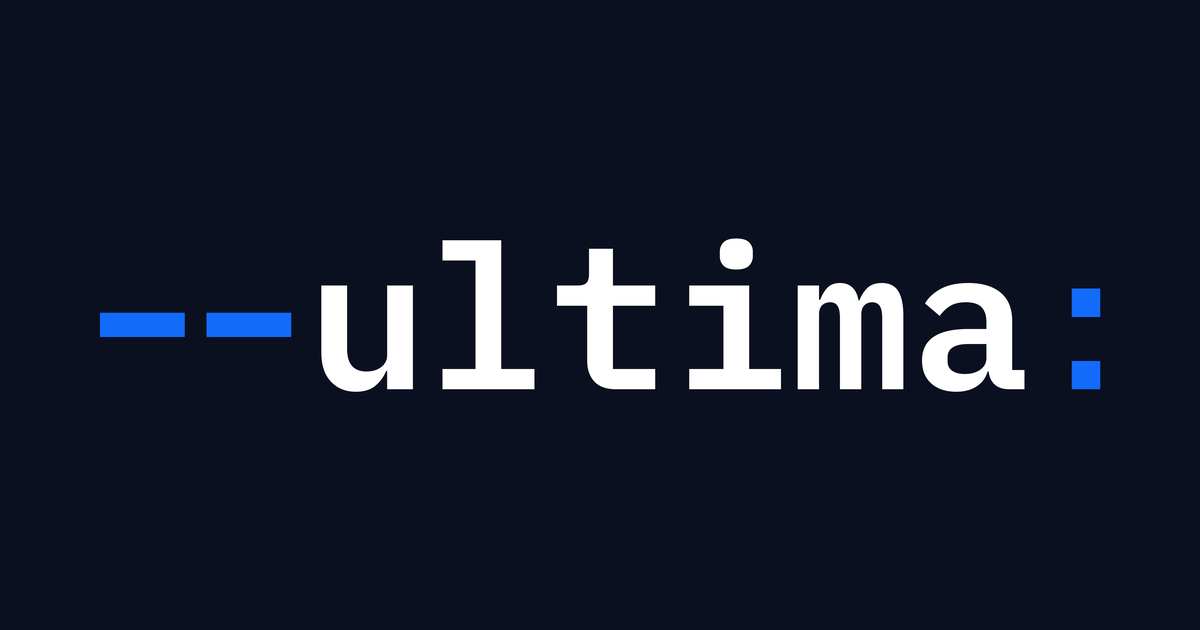
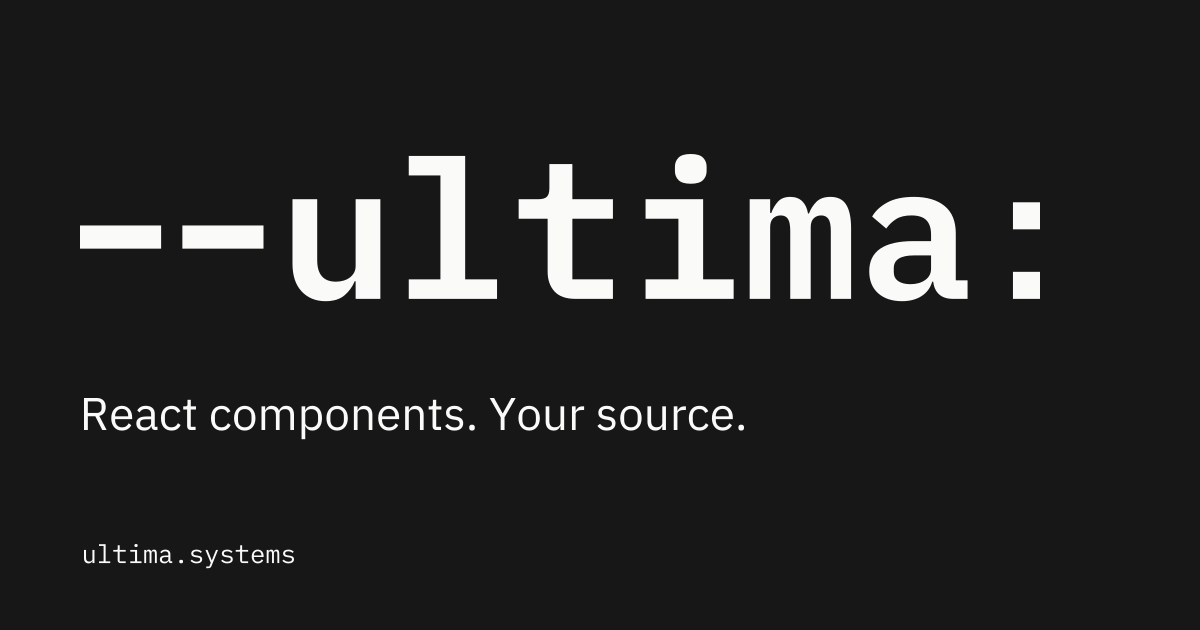
Refine Ultima branding across site and repository

diff --git a/apps/docs/index.html b/apps/docs/index.html
@@ -9,18 +9,20 @@
     <link rel="icon" href="/favicon.ico" sizes="any" />
     <link rel="apple-touch-icon" href="/apple-touch-icon.png" />
     <link rel="manifest" href="/site.webmanifest" />
-    <meta name="theme-color" content="#0b1020" />
+    <meta name="theme-color" content="#171717" />
     <meta property="og:type" content="website" />
     <meta property="og:title" content="Ultima" />
     <meta property="og:description" content="Tokens and React components on Base UI and StyleX, installed as source through a shadcn registry." />
     <meta property="og:url" content="https://ultima.systems/" />
     <meta property="og:image" content="https://ultima.systems/og.png" />
+    <meta property="og:image:alt" content="Ultima. React components. Your source." />
     <meta property="og:image:width" content="1200" />
     <meta property="og:image:height" content="630" />
     <meta name="twitter:card" content="summary_large_image" />
     <meta name="twitter:title" content="Ultima" />
     <meta name="twitter:description" content="Tokens and React components on Base UI and StyleX, installed as source through a shadcn registry." />
     <meta name="twitter:image" content="https://ultima.systems/og.png" />
+    <meta name="twitter:image:alt" content="Ultima. React components. Your source." />
     <script>
       (function () {
         try {

diff --git a/scripts/build-brand.py b/scripts/build-brand.py
@@ -1,102 +1,131 @@
-"""Regenerate brand assets: python3 -m pip install fonttools brotli pillow."""
+"""Regenerate the brand kit. See docs/brand.md for setup and usage."""
 
+from html import escape
 from io import BytesIO
 from pathlib import Path
 
+import cairosvg
 from fontTools.pens.boundsPen import BoundsPen
 from fontTools.pens.svgPathPen import SVGPathPen
 from fontTools.ttLib import TTFont
 from PIL import Image, ImageDraw, ImageFont
-
+from PIL.PngImagePlugin import PngInfo
 
 PUBLIC = Path(__file__).resolve().parents[1] / 'apps/docs/public'
-BLUE, INK, WHITE = '#126BFA', '#0B1020', '#FFFFFF'
-font = TTFont(PUBLIC / 'fonts/IBMPlexMono-SemiBold.woff2')
-glyphs, cmap = font.getGlyphSet(), font.getBestCmap()
-units = font['head'].unitsPerEm
-font.flavor = None
-ttf = BytesIO()
-font.save(ttf)
-letters = []
-x = 0
-for char in '--ultima:':
-    glyph = glyphs[cmap[ord(char)]]
-    pen, bounds = SVGPathPen(glyphs), BoundsPen(glyphs)
-    glyph.draw(pen)
-    glyph.draw(bounds)
-    path, box = pen.getCommands(), bounds.bounds
-    if char == '-':
-        path, box = 'M30 260H450V380H30Z', (30, 260, 450, 380)
-    elif char == ':':
-        path, box = 'M200 0H340V140H200Z M200 360H340V500H200Z', (200, 0, 340, 500)
-    letters.append((char, x, path, box))
-    x += 530 if char == '-' else glyph.width
-
-left = min(x + b[0] for _, x, _, b in letters)
-right = max(x + b[2] for _, x, _, b in letters)
-bottom = min(b[1] for _, _, _, b in letters)
-top = max(b[3] for _, _, _, b in letters)
-width, height = right - left, top - bottom
+BRAND = PUBLIC / 'brand'
+INK, PAPER = '#171717', '#FAFAF9'
+BRAND.mkdir(exist_ok=True)
 
 
-def logo_svg(label, text_color, punctuation):
-    paths = '\n'.join(
-        f'  <path fill="{punctuation if char in "-:" else text_color}" '
-        f'transform="translate({x-left} {top}) scale(1 -1)" d="{path}"/>'
-        for char, x, path, _ in letters
-    )
-    return (f'<svg xmlns="http://www.w3.org/2000/svg" viewBox="0 0 {width} {height}" '
-            f'role="img" aria-labelledby="title">\n  <title id="title">{label}</title>\n'
-            f'{paths}\n</svg>\n')
+def lettering(value, family='IBMPlexMono-SemiBold'):
+    font = TTFont(PUBLIC / f'fonts/{family}.woff2')
+    glyphs, cmap = font.getGlyphSet(), font.getBestCmap()
+    letters, x = [], 0
+    for char in value:
+        glyph = glyphs[cmap[ord(char)]]
+        pen, bounds = SVGPathPen(glyphs), BoundsPen(glyphs)
+        glyph.draw(pen)
+        glyph.draw(bounds)
+        path, box = pen.getCommands(), bounds.bounds
+        if char == '-':
+            path, box = 'M30 260H450V380H30Z', (30, 260, 450, 380)
+        elif char == ':':
+            path, box = 'M200 0H340V140H200Z M200 360H340V500H200Z', (200, 0, 340, 500)
+        if box:
+            letters.append((x, path, box))
+        x += 530 if char == '-' else glyph.width
+    left = min(x + b[0] for x, _, b in letters)
+    right = max(x + b[2] for x, _, b in letters)
+    bottom = min(b[1] for _, _, b in letters)
+    top = max(b[3] for _, _, b in letters)
+    paths = ''.join(f'<path transform="translate({x-left} {top}) scale(1 -1)" d="{path}"/>' for x, path, _ in letters)
+    return paths, right-left, top-bottom
 
 
-for name, label, text, accent in [
-    ('dark', 'Ultima logo for dark backgrounds', WHITE, BLUE),
-    ('light', 'Ultima logo for light backgrounds', INK, BLUE),
-    ('white', 'Ultima monochrome white logo', WHITE, WHITE),
-    ('ink', 'Ultima monochrome ink logo', INK, INK),
-]:
-    (PUBLIC / f'brand/ultima-logo-{name}.svg').write_text(logo_svg(label, text, accent))
+def svg(label, width, height, content):
+    return (f'<svg xmlns="http://www.w3.org/2000/svg" viewBox="0 0 {width} {height}" role="img" aria-labelledby="title">\n'
+            f'<title id="title">{escape(label)}</title>\n{content}\n</svg>\n')
 
-mark = ('  <g fill="' + BLUE + '">\n'
-        '    <rect x="10" y="28" width="19" height="8"/>\n'
-        '    <rect x="35" y="28" width="19" height="8"/>\n'
-        '  </g>\n')
-for path, label, background in [
-    ('brand/ultima-mark.svg', 'Ultima compact mark', ''),
-    ('favicon.svg', 'Ultima favicon', f'  <rect width="64" height="64" rx="14" fill="{INK}"/>\n'),
-]:
-    (PUBLIC / path).write_text(
-        '<svg xmlns="http://www.w3.org/2000/svg" viewBox="0 0 64 64" role="img" aria-labelledby="title">\n'
-        f'  <title id="title">{label}</title>\n{background}{mark}</svg>\n')
+
+def save(name, source, width=None):
+    (PUBLIC / name).write_text(source)
+    if width:
+        raw = cairosvg.svg2png(bytestring=source.encode(), output_width=width)
+        image = Image.open(BytesIO(raw))
+        metadata = PngInfo()
+        metadata.add_text('Source', 'Generated from outlined IBM Plex lettering by scripts/build-brand.py; see fonts/OFL.txt.')
+        image.save((PUBLIC / name).with_suffix('.png'), pnginfo=metadata)
+
+
+word, word_width, word_height = lettering('--ultima:')
+mark, mark_width, mark_height = lettering('u:')
+
+
+def compact(foreground):
+    scale = 40 / mark_width
+    return f'<g fill="{foreground}" transform="translate(12 {(64-mark_height*scale)/2}) scale({scale})">{mark}</g>'
+
+
+for variant, foreground in [('dark', PAPER), ('light', INK), ('white', '#FFFFFF'), ('ink', INK)]:
+    save(f'brand/ultima-logo-{variant}.svg', svg('Ultima wordmark', word_width, word_height,
+         f'<g fill="{foreground}">{word}</g>'), 1600)
+    save(f'brand/ultima-mark-{variant}.svg', svg('Ultima compact mark', 64, 64, compact(foreground)), 512)
+save('brand/ultima-mark.svg', svg('Ultima compact mark', 64, 64, compact(INK)))
+icon_svg = svg('Ultima', 64, 64, f'<rect width="64" height="64" rx="14" fill="{INK}"/>{compact(PAPER)}')
+save('favicon.svg', icon_svg)
+save('brand/ultima-avatar.svg', svg('Ultima', 64, 64,
+     f'<rect width="64" height="64" fill="{INK}"/>{compact(PAPER)}'), 1024)
 
 
 def icon(size):
-    scale = size * 4 / 64
-    image = Image.new('RGB', (size * 4, size * 4), INK)
-    draw = ImageDraw.Draw(image)
-    for x in (10, 35):
-        draw.rectangle((x * scale, 28 * scale, (x + 19) * scale - 1, 36 * scale - 1), fill=BLUE)
-    return image.resize((size, size), Image.Resampling.LANCZOS)
+    # Raster platform icons use a full bleed background; the platform owns the mask.
+    return Image.open(BytesIO(cairosvg.svg2png(
+        url=str(BRAND / 'ultima-avatar.svg'), output_width=size*4, output_height=size*4,
+    ))).convert('RGB').resize((size, size), Image.Resampling.LANCZOS)
 
 
 for name, size in [('apple-touch-icon', 180), ('android-chrome-192x192', 192), ('android-chrome-512x512', 512)]:
-    icon(size).save(PUBLIC / f'{name}.png')
+    metadata = PngInfo()
+    metadata.add_text('Source', 'Generated from brand/ultima-avatar.svg by scripts/build-brand.py.')
+    icon(size).save(PUBLIC / f'{name}.png', pnginfo=metadata)
 icon(256).save(PUBLIC / 'favicon.ico', sizes=[(16, 16), (32, 32), (48, 48), (64, 64), (128, 128), (256, 256)])
 
-scale = 4
-image = Image.new('RGB', (1200 * scale, 630 * scale), INK)
-draw = ImageDraw.Draw(image)
-ratio = 1000 * scale / width
-face = ImageFont.truetype(BytesIO(ttf.getvalue()), round(units * ratio))
-for char, x, _, _ in letters:
-    origin_x = 100 * scale + (x-left) * ratio
-    baseline = (630 * scale-height*ratio)/2 + top*ratio
-    if char in '-:':
-        boxes = [(30, 260, 450, 380)] if char == '-' else [(200, 0, 340, 140), (200, 360, 340, 500)]
-        for x0, y0, x1, y1 in boxes:
-            draw.rectangle((origin_x+x0*ratio, baseline-y1*ratio, origin_x+x1*ratio, baseline-y0*ratio), fill=BLUE)
-    else:
-        draw.text((origin_x, baseline), char, font=face, anchor='ls', fill=WHITE)
-image.resize((1200, 630), Image.Resampling.LANCZOS).save(PUBLIC / 'og.png')
-print(f'Logo dimensions: {width} × {height}')
+
+def placed(value, x, y, width, fill, family='IBMPlexMono-SemiBold'):
+    paths, natural_width, _ = lettering(value, family)
+    return f'<g fill="{fill}" transform="translate({x} {y}) scale({width/natural_width})">{paths}</g>'
+
+
+social = (f'<rect width="1200" height="630" fill="{INK}"/>'
+          + placed('--ultima:', 80, 154, 960, PAPER)
+          + placed('React components. Your source.', 84, 398, 660, PAPER, 'IBMPlexSans-Regular')
+          + placed('ultima.systems', 84, 544, 210, PAPER, 'IBMPlexMono-Regular'))
+save('brand/ultima-social.svg', svg('Ultima. React components. Your source.', 1200, 630, social))
+save('og.svg', svg('Ultima. React components. Your source.', 1200, 630, social), 1200)
+# The public share image keeps its established URL; the editable vector lives in brand/.
+(PUBLIC / 'og.svg').unlink()
+
+# A reproducible review board, with actual-size favicon samples.
+board = Image.new('RGB', (1600, 1000), PAPER)
+draw = ImageDraw.Draw(board)
+draw.rectangle((0, 0, 1599, 449), fill=INK)
+font = TTFont(PUBLIC / 'fonts/IBMPlexSans-Regular.woff2')
+font.flavor = None
+buffer = BytesIO()
+font.save(buffer)
+label_font = ImageFont.truetype(BytesIO(buffer.getvalue()), 22)
+for variant, y, fg in [('dark', 0, PAPER), ('light', 450, INK)]:
+    logo = Image.open(BRAND / f'ultima-logo-{variant}.png')
+    logo.thumbnail((980, 200), Image.Resampling.LANCZOS)
+    board.paste(logo, (72, y+126), logo)
+    draw.text((72, y+48), 'Ultima / primary wordmark', fill=fg, font=label_font)
+    compact_image = Image.open(BRAND / f'ultima-mark-{variant}.png').resize((220, 220), Image.Resampling.LANCZOS)
+    board.paste(compact_image, (1260, y+105), compact_image)
+    draw.text((1270, y+48), 'Compact mark', fill=fg, font=label_font)
+draw.text((72, 937), 'Browser and app icons', fill=INK, font=label_font)
+for size, x in [(16, 460), (32, 520), (48, 600), (64, 700)]:
+    board.paste(icon(size), (x, 950-size//2))
+metadata = PngInfo()
+metadata.add_text('Source', 'Brand review board generated by scripts/build-brand.py from its vector assets.')
+board.save(BRAND / 'ultima-brand-board.png', pnginfo=metadata)
+print('Regenerated wordmarks, compact marks, avatar, platform icons, social card and brand board.')

diff --git a/docs/brand.md b/docs/brand.md
@@ -1,0 +1,50 @@
+# Ultima brand
+
+Ultima gives developers React components they install as source. Its identity should feel at home beside their own work. The wordmark keeps the syntax of a CSS custom property, `--ultima:`, and the compact `u:` mark keeps the initial and colon when the full name will not fit.
+
+## Color and typography
+
+The primary identity is monochrome: ink `#171717` and paper `#FAFAF9`. Use the dark logo on dark backgrounds and the light logo on light backgrounds. A pure-white version is available for production contexts that require white artwork. Keep every character the same color, including the punctuation.
+
+The wordmark uses IBM Plex Mono SemiBold with squared punctuation. The exported lettering is outlined SVG, so it needs no installed font. Supporting prose uses IBM Plex Sans; technical text uses IBM Plex Mono. The bundled fonts retain their [OFL license](../apps/docs/public/fonts/OFL.txt).
+
+Blue remains available through the component palette. It is not required for brand recognition. Component states and theme previews keep their semantic colors; the brand does not redefine those tokens.
+
+## Usage
+
+- Use the full wordmark in the site header, README, and any introduction to Ultima. Write “Ultima” in prose.
+- Reserve the compact mark for favicons, app icons, and avatars. Use the square avatar asset when a service applies its own circle or rounded mask.
+- Leave at least one lowercase letter-height of space around the wordmark. The compact exports include their own padding; do not crop it away.
+- Keep the wordmark at least 100 CSS pixels wide. Use the compact mark below that size. Check raster exports at their final display size.
+- Preserve proportions. Do not recolor individual characters, add shadows or outlines, or place the mark on a busy image.
+- The social card introduces the product with “React components. Your source.” and the site address. Keep practical product language alongside the name.
+
+## Assets
+
+All paths below are relative to `apps/docs/public/`.
+
+| Asset | Files | Use |
+| --- | --- | --- |
+| Primary wordmarks | `brand/ultima-logo-dark.svg`, `brand/ultima-logo-light.svg` | Site and repository identity |
+| Production wordmarks | `brand/ultima-logo-white.svg`, `brand/ultima-logo-ink.svg` | Single-color artwork |
+| Compact marks | `brand/ultima-mark-{dark,light,white,ink}.svg` | Small placements on a chosen background |
+| Default compact mark | `brand/ultima-mark.svg` | Ink, transparent background |
+| Square avatar | `brand/ultima-avatar.svg`, `.png` | Repository or social avatar; PNG is 1024 × 1024 |
+| Social card | `brand/ultima-social.svg`, `og.png` | Editable vector and 1200 × 630 share image |
+| Browser icons | `favicon.svg`, `favicon.ico` | SVG and 16–256 px ICO sizes |
+| Platform icons | `apple-touch-icon.png`, `android-chrome-*.png` | 180, 192, and 512 px icons |
+| Review board | `brand/ultima-brand-board.png` | Both backgrounds and actual-size icon samples |
+
+Every named wordmark also has a transparent PNG at 1600 px wide. Compact mark variants have 512 × 512 transparent PNGs. Prefer SVG on the web.
+
+## Regeneration
+
+Run from the repository root:
+
+```sh
+python3 -m venv .scratch/brand-venv
+.scratch/brand-venv/bin/pip install -r scripts/brand-requirements.txt
+.scratch/brand-venv/bin/python scripts/build-brand.py
+```
+
+CairoSVG also requires the system Cairo library. The generator uses the bundled fonts, produces vector outlines and raster exports from the same geometry, and writes provenance into PNG metadata. Edit the generator rather than its output. After regeneration, inspect the board and share image, then verify the site header in both modes at desktop and mobile widths.

diff --git a/docs/spec/ultima.md b/docs/spec/ultima.md
@@ -2034,7 +2034,7 @@ The readiness bar, settled on [The readiness bar for launch](https://github.com/
 
 ### Portfolio surface
 
-The fantasy voice lives in the brand layer only: the name, the six scale names, hero and page titles, and the 404. Technical prose is plain. The brand lockup is `--ultima`: the blue three-bar mark evokes CSS custom-property syntax and the lowercase wordmark keeps the identity close to frontend infrastructure. The header and home hero use the full lockup, with white lettering on dark surfaces and ink lettering on light surfaces. The favicon uses the compact three-bar mark on an ink ground because the full wordmark does not survive 16 pixels. Mana's Prism mark stays on mana: Ultima is a standalone MIT project, and carrying a mana mark would assert a relationship a reader cannot act on, so the two link to each other from their READMEs instead. Whether Ultima ships icons is settled under Iconography, and the answer does not reach the brand layer.
+The fantasy voice lives in the brand layer only: the name, the six scale names, hero and page titles, and the 404. Technical prose is plain. The brand lockup is `--ultima:` in IBM Plex Mono SemiBold, with squared punctuation and a compact `u:` mark for small placements. The identity uses neutral ink and paper in both color modes; component and theme colors keep their semantic roles. The [brand guidelines](../brand.md) define the assets, spacing, and regeneration process. Mana's Prism mark stays on mana: Ultima is a standalone MIT project, and carrying a mana mark would assert a relationship a reader cannot act on, so the two link to each other from their READMEs instead. Whether Ultima ships icons is settled under Iconography, and the answer does not reach the brand layer.
 
 The header also carries a theme control offering dark, light, and system. Dark-first with light as a full peer is a claim the site should demonstrate rather than assert, and the control is the demonstration.
 

diff --git a/README.md b/README.md
@@ -12,7 +12,7 @@
 <p align="center">
   <a href="https://github.com/frankieramirez/ultima/actions/workflows/ci.yml"><img src="https://github.com/frankieramirez/ultima/actions/workflows/ci.yml/badge.svg" alt="CI"></a>
   <a href="https://github.com/frankieramirez/ultima/actions/workflows/smoke-install.yml"><img src="https://github.com/frankieramirez/ultima/actions/workflows/smoke-install.yml/badge.svg" alt="Smoke install"></a>
-  <a href="LICENSE"><img src="https://img.shields.io/badge/license-MIT-126BFA.svg" alt="MIT license"></a>
+  <a href="LICENSE"><img src="https://img.shields.io/badge/license-MIT-171717.svg" alt="MIT license"></a>
 </p>
 
 Ultima is a design system for React projects that compile StyleX. The shadcn CLI copies each component's source into your project, and you own it from there. Dark is the default color mode. Light is a full peer: every semantic token, contrast check, and demo exists in both.
@@ -106,7 +106,7 @@ Read the [principles](docs/spec/ultima.md#principles) before changing anything. 
 
 ## Brand
 
-The wordmark is `--ultima:` set in IBM Plex Mono SemiBold, with the dashes and colon in Ultima blue `#126BFA` on ink `#0B1020`. The logo ships in four variants under [`apps/docs/public/brand`](apps/docs/public/brand): dark, light, monochrome white, and monochrome ink, plus a compact mark. `scripts/build-brand.py` regenerates all of them along with the favicons and the Open Graph image.
+The wordmark is `--ultima:` in IBM Plex Mono SemiBold, with a compact `u:` mark for icons. The identity uses neutral ink and paper; color belongs to the components and themes. [Brand guidelines](docs/brand.md) cover the SVG and PNG exports, social image, avatar, and regeneration command.
 
 ## Related
 
